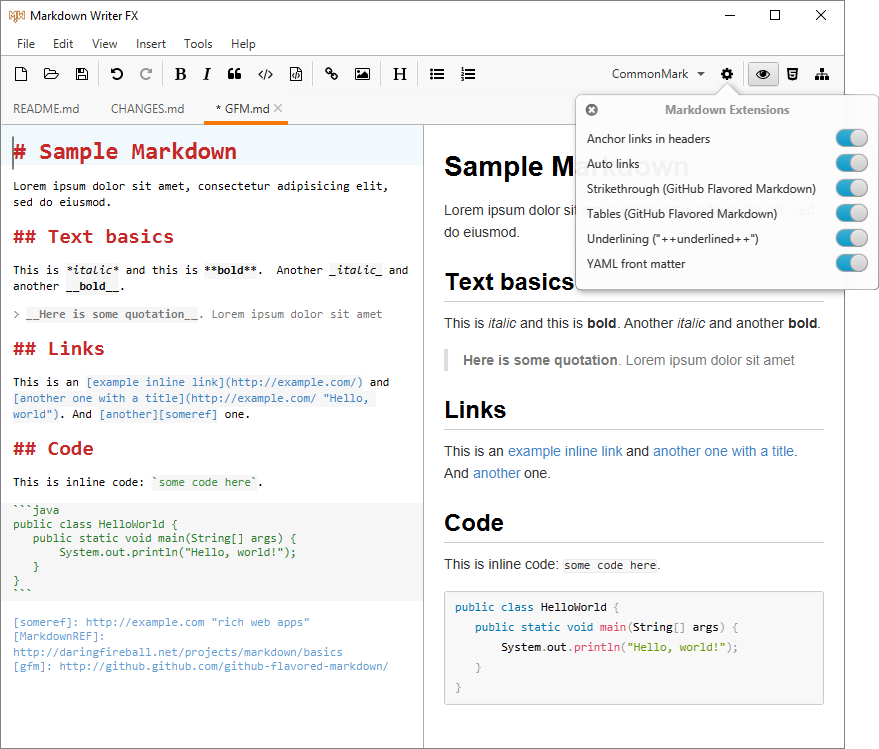
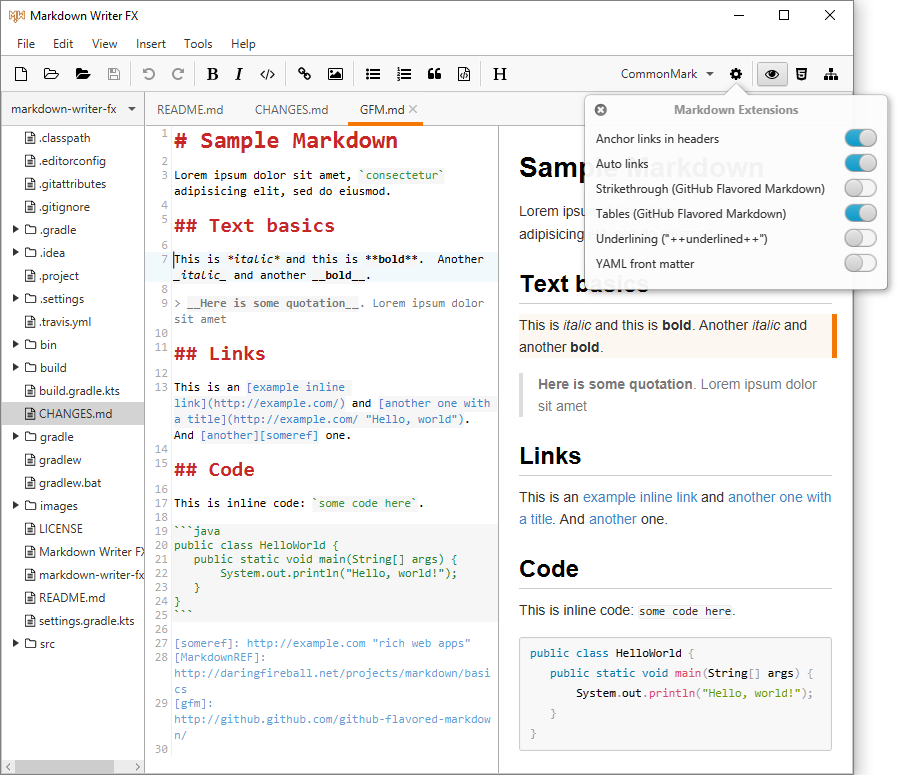
Projects: README.md, CHANGES.md and screenshot updated

diff --git a/CHANGES.md b/CHANGES.md
@@ -3,6 +3,16 @@ Markdown Writer FX Change Log
 
 ## Unreleased
 
+- Project Manager:
+  - open any folder as project
+  - project pane on left side of main window shows file tree of current project
+  - combo box at top of project pane allows quick switching between projects
+  - single-click on file in project tree opens file in preview mode (indicated
+    by italic font in tab title), which will be replaced when opening another
+    file in preview mode
+  - double-click opens file in regular mode
+  - drag-and-drop image/markdown file from project tree to markdown editor
+    inserts a markdown link to that image/markdown file
 - Smarter "Insert > Bold/Italic/Strikethrough/Inline Code": if selection is
   empty, then the word at the caret will be used as selection.
 - Move selected lines down (with `Alt+Down`) no longer eats empty lines.

diff --git a/README.md b/README.md
@@ -16,20 +16,12 @@ Features
   * Syntax highlighting in editor
   * Keyboard shortcuts to insert Markdown (Bold, Italic, Code, Links, Images, Header, Lists, ...)
   * Auto-indent lists
-  * search and replace
+  * Search and replace
+  * Project manager
   * HTML preview
   * HTML source preview
   * Markdown AST view
   * Multi-platform: Windows, Mac, Linux, ...
-
-TODO
-----
-
-  * auto-complete
-  * more options
-  * directory tree view
-  * spell checker
-  * TBD
 
 Requirements
 ------------
